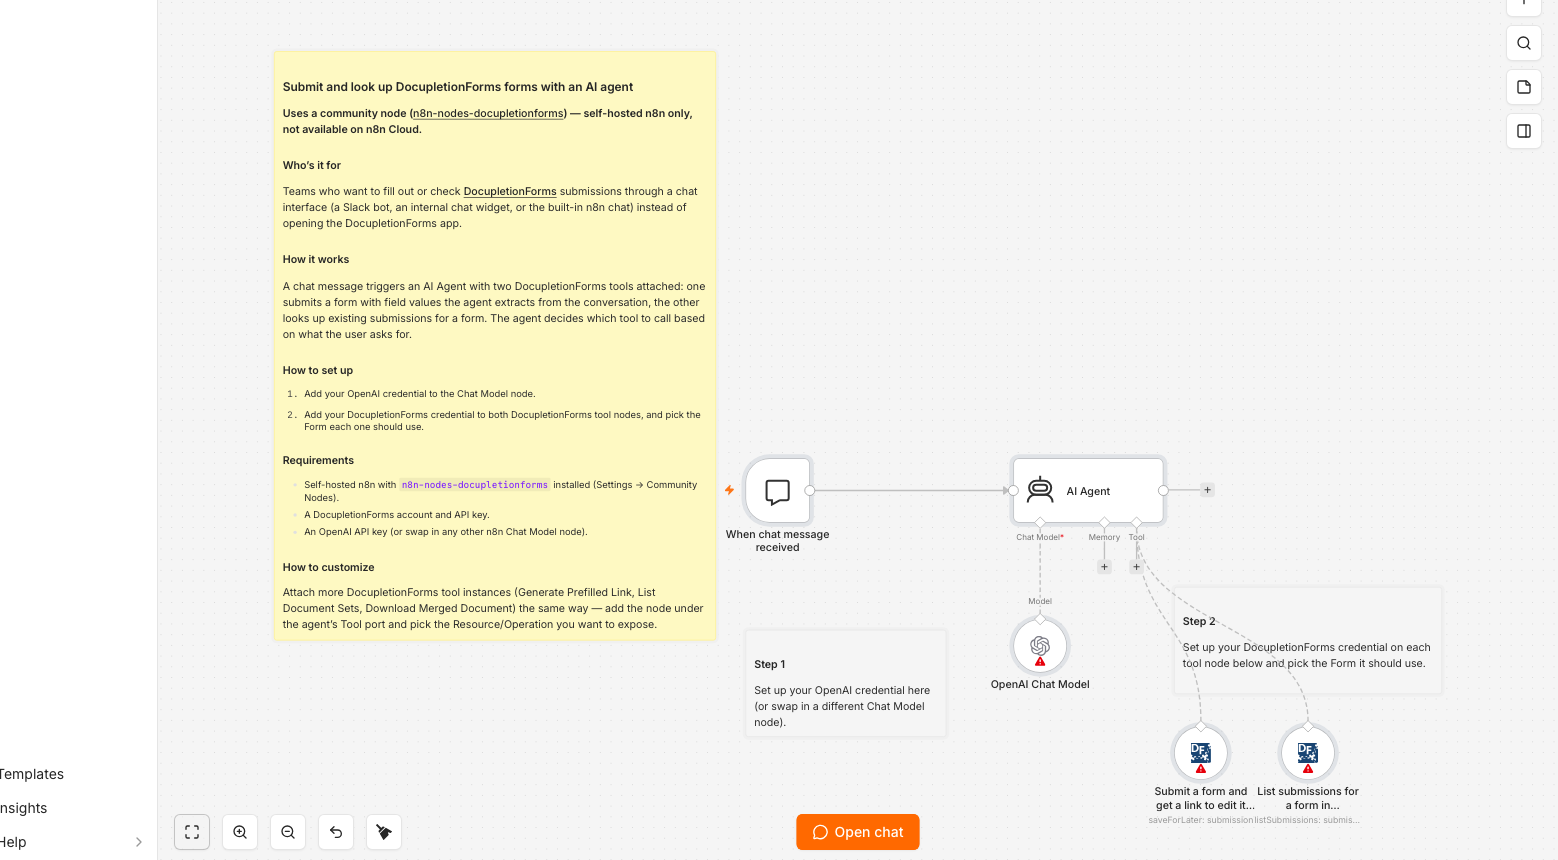
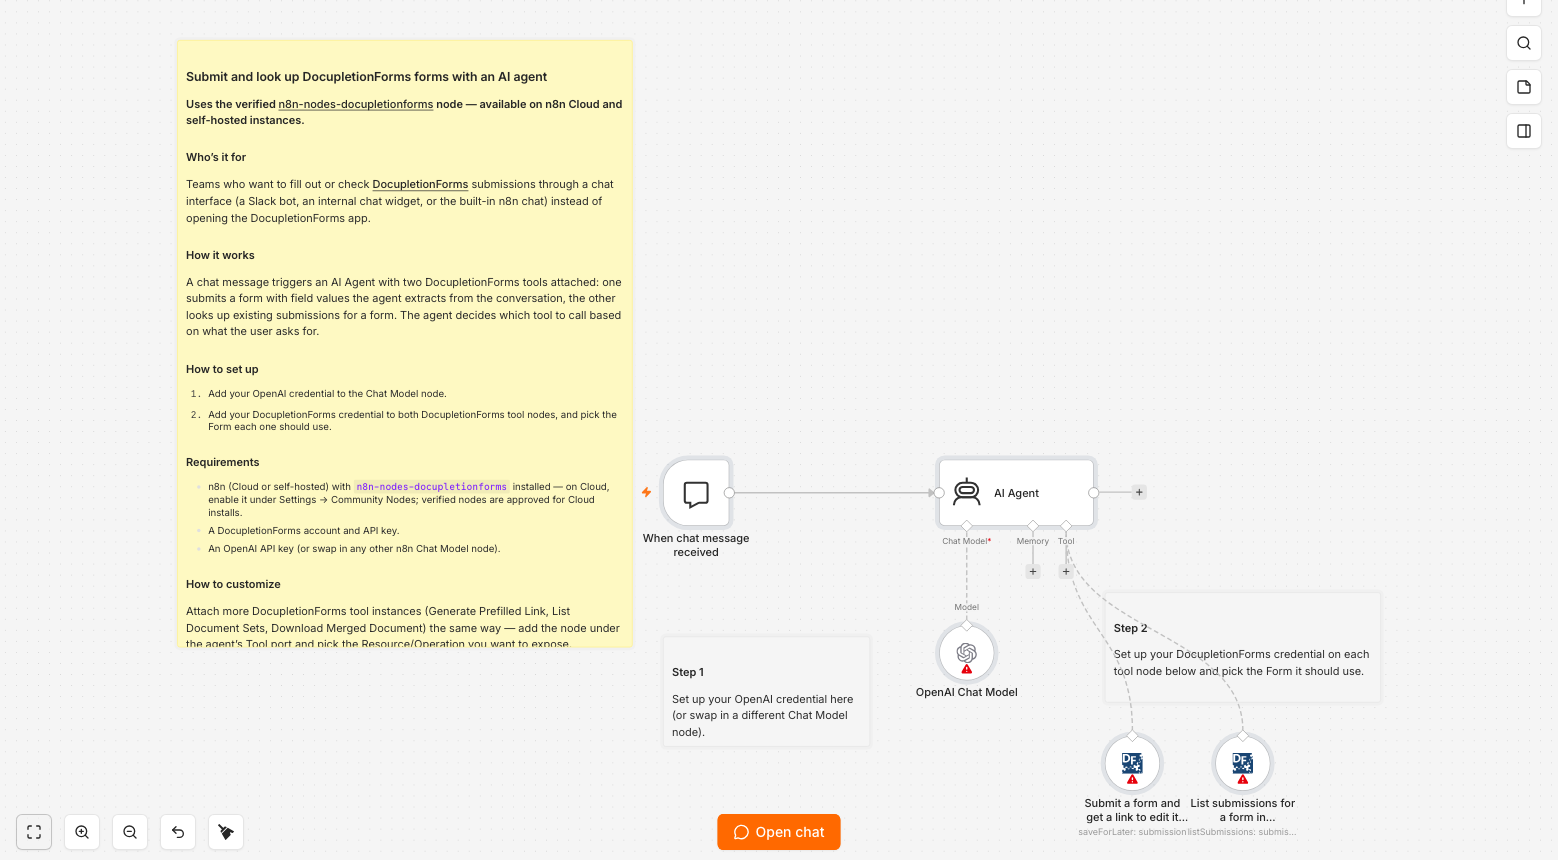
Fix templates: node is verified, works on n8n Cloud too
The self-hosted-only disclaimer and the Community-Nodes-only
installation note were wrong — n8n-nodes-docupletionforms is a
verified node, available on n8n Cloud as well as self-hosted
instances. Corrected the description sticky's disclaimer and
Requirements bullet on all 5 templates, and regenerated the embedded
screenshots so they match the corrected text (the old screenshots had
the outdated disclaimer baked in as pixels). Re-validated all 5 by
reimporting into a fresh instance — still zero unrecognized-node
warnings.

diff --git a/templates/README.md b/templates/README.md
@@ -31,8 +31,7 @@ intentionally-empty Form/Document Set/credential fields described above.
 These are also formatted to meet [n8n's template submission
 guidelines](https://n8n.notion.site/Template-submission-guidelines-9959894476734da3b402c90b124b1f77):
 a mandatory yellow description sticky (with the required Who's it for / How it
-works / How to set up / Requirements / How to customize sections and a
-self-hosted-only disclaimer, since this uses a community node), neutral step
-notes, an SEO-style title, and an embedded workflow screenshot at the top
-(under [`images/`](images)) since template previews don't render unrecognized
-community-node icons.
+works / How to set up / Requirements / How to customize sections), neutral
+step notes, an SEO-style title, and an embedded workflow screenshot at the top
+(under [`images/`](images)). `n8n-nodes-docupletionforms` is a **verified**
+node available on both n8n Cloud and self-hosted instances.
